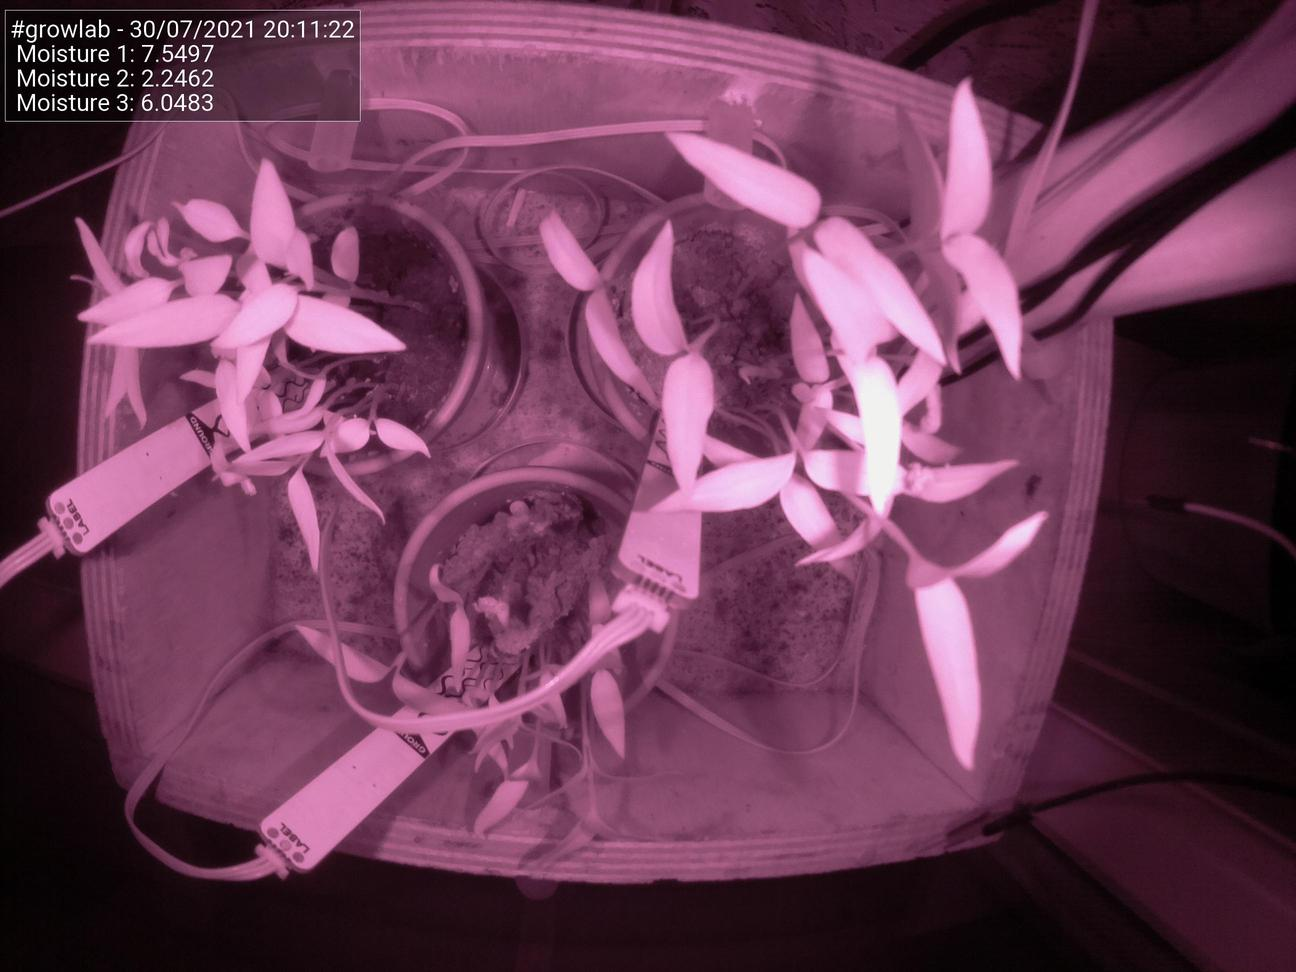
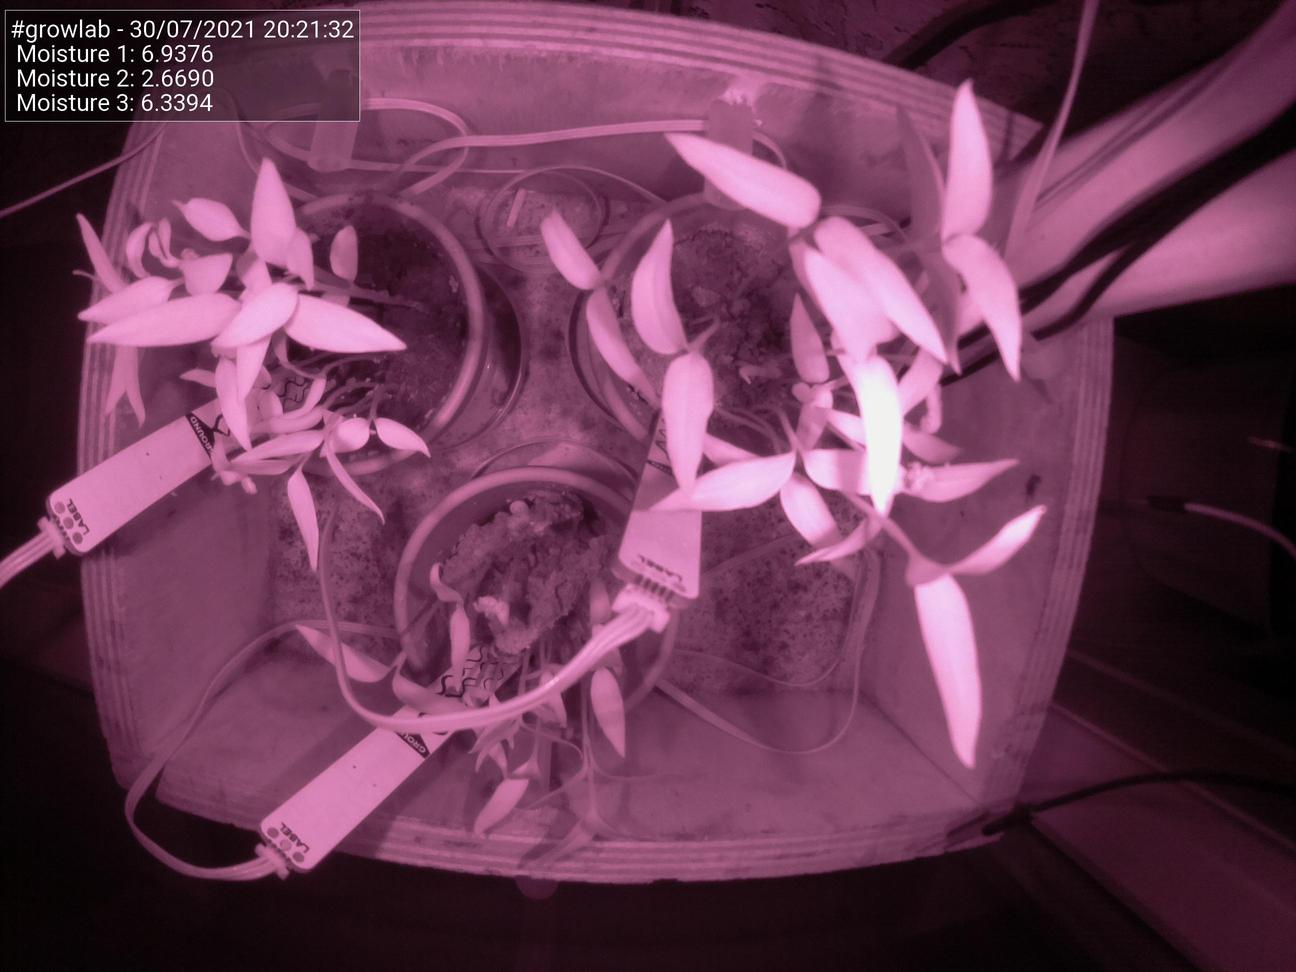
Update images at Fri 30 Jul 20:21:38 BST 2021

diff --git a/docs/index.html b/docs/index.html
@@ -51,25 +51,25 @@
                                 <td>Date</td>
                                 <td>30/07/2021</td>
                                 <td>Time</td>
-                                <td>20:11:22</td>
+                                <td>20:21:32</td>
                             </tr>
                             <tr>
                                 <td>Temperature</td>
                                 <td>N/A</td>
                                 <td>Moisture 1</td>
-                                <td>7.5497</td>
+                                <td>6.9376</td>
                             </tr>
                             <tr>
                                 <td>Humidity</td>
                                 <td>N/A</td>
                                 <td>Moisture 2</td>
-                                <td>2.2462</td>
+                                <td>2.6690</td>
                             </tr>
                             <tr>
                                 <td>Pressure</td>
                                 <td>N/A</td>
                                 <td>Moisture 3</td>
-                                <td>6.0483</td>
+                                <td>6.3394</td>
                             </tr>
                         </tbody>
                     </table>
@@ -77,7 +77,7 @@
 
                 <h5>Latest image</h5>
                 <div style="width: 85%;">
-                            <img class="figure-img img-fluid rounded" src="./preview.jpg?uid=1627672287.8357184">
+                            <img class="figure-img img-fluid rounded" src="./preview.jpg?uid=1627672898.013372">
                 </div>
             </div>
         </div>
